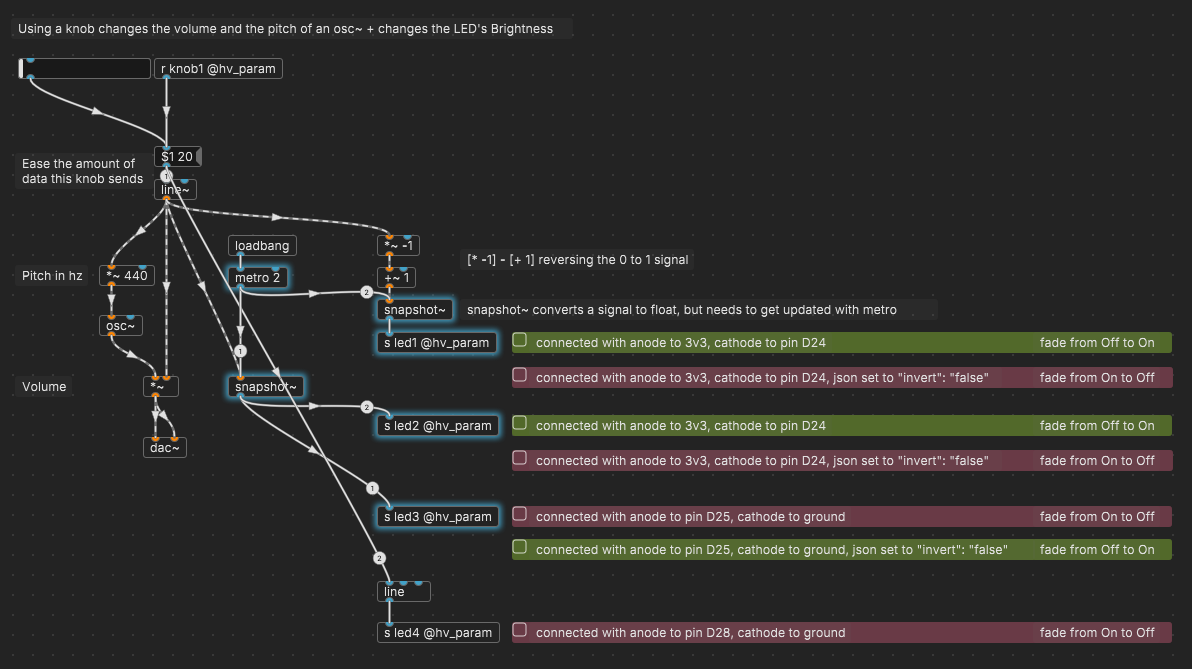
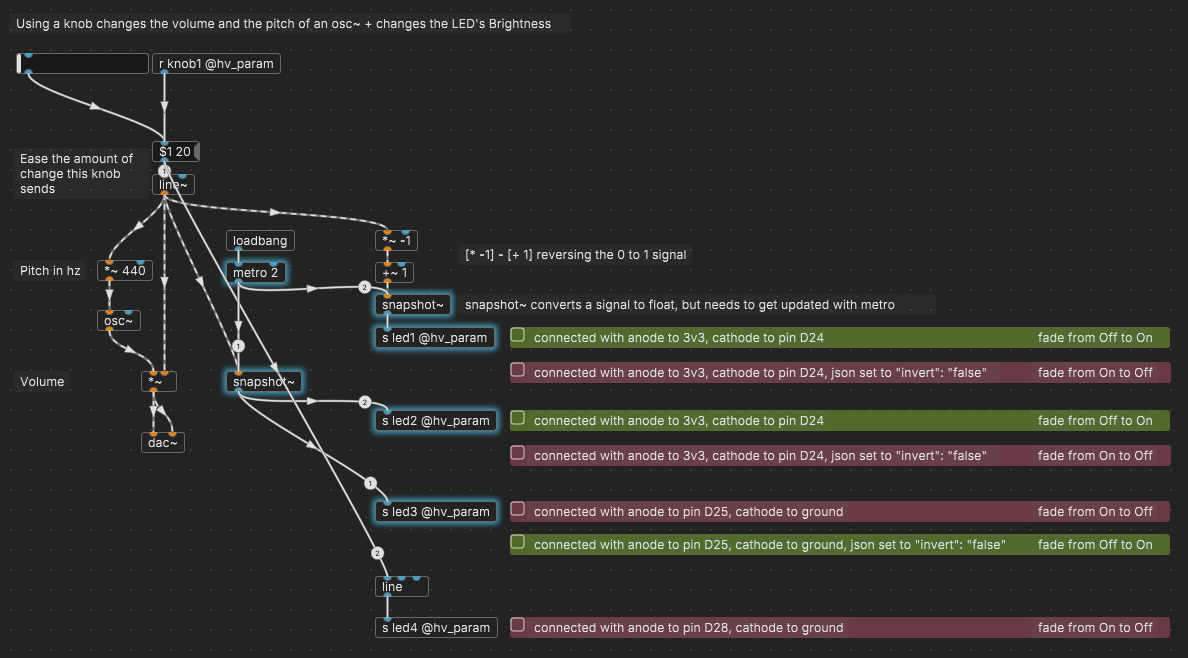
update LED and links

diff --git a/02_components_pd_examples/03_LEDs/LED_plugdata.md b/02_components_pd_examples/03_LEDs/LED_plugdata.md
@@ -38,6 +38,8 @@ If a pin like on many micro-controllers can only output a steady 3V or 5V, there
 
 For Plugdata this means that when we've setup the hardware and custom json file to use the PWM approach we can simply send a value between 0 and 1 to achieve brightness. Animate this change and we'll achieve fading.
 
+***
+
 ## What it looks like
 
 <img alt="LED illustration Wikipedia" width="400px" height="auto" src="img\LED-wikipedia.png">
@@ -67,6 +69,8 @@ For the common cathode RGB LED you need to wire up each R, G, B, pin with a resi
 Using an extra chip, e.g. PCA9685, like done on some of the Electro-Smith devices (Patch, Petal), is probably the best way if you're in need of more pins or LED's.
 There is a breakout board by Adafruit that connects over i2c, however, I've not tried hooking this up myself, so can't provide full guidance. [Look at the json files of json2daisy](https://github.com/electro-smith/json2daisy/tree/f77c6b40b95372643616dbef445e760998aacf33/src/json2daisy/resources), e.g. the main component_defs.json and the board specific json files for The Patch and PPetal, you'll find the code used for those. Look for words LED and the chip PCA9685.
 
+***
+
 ## Pins - wiring up the LED's
 
 For the sake of demoing, we'll be using single color LED's. These have a shorter leg, the cathode that needs to be connected to ground and the longer leg that goes through a resistor, 22O ohm, into the Daisy GPIO pins.
@@ -95,6 +99,8 @@ This video demonstrates the led flicker / stepped behavior:
 {: .new}
 > Todo / to check: Which pins can do PWM? Thus far I've used the Analog pins, yet defining them in the custom json as led's sets them up as pwm pins, so as per some info I understand that any pin can be setup as pwm because it's software pwm, hardware pwm is still under development. Source: [Takumi Ogata on Daisy forum](https://forum.electro-smith.com/t/dimming-leds-with-hardware-pwm/4957/3) and: [Led Class reference on libDaisy](https://electro-smith.github.io/libDaisy/classdaisy_1_1_led.html#details)
 
+***
+
 ## Components custom json
 
 Depending on how you've wired the pins you might find it easy to define the invert to false.
@@ -114,6 +120,8 @@ This is the way to address the pins in json, note the invert line.
             "pin": 24,
             "invert": "false"
 ```
+
+***
 
 ## PD example(s)
 
@@ -177,7 +185,7 @@ Using metro with a toggle we send a 1 or a 0 after each bang that the tgl sends
 
 In this example we want the LED to be on when the touchpad is toggled on. Depending on your pin setup this might need a simple reversing of the 0 to 1 value.
 
-This patch is using the touch sensor mpr121, to get that sensor running, you need to do some extra stuff, see the page 'sensors' for more info.
+This patch is using the touch sensor mpr121, to get that sensor running, you need to do some extra stuff, see the page 'custom json board' ([link](01_install_setup_plugdata\03_custom_json_board\03_custom_json_board.html)) for more info.
 You could simply use e.g. a button/switch instead.
 
 ![](img\ledtest_fading_reversed_mpr121.jpg)
@@ -202,6 +210,8 @@ Note there's rather a lot of needless extra complexity due to the testing, I hop
 {: .new}
 > After all of my testing, I've come to the decision to leave invert out of the custom json, and reverse the value in Plugdata when needed.
 > Depending on what LED's and how you have wired them up, you might want to define the desired values on `loadbang` as well. E.g. if your patch/synth boots and turns the led on, and only updates after you use it the first time.
+
+***
 
 ## Links / references / sources
 
@@ -230,7 +240,7 @@ Note there's rather a lot of needless extra complexity due to the testing, I hop
 To ensure the flickering/ stepped behaviour was caused by software or hardware I tried some cpp code.
 
 I've tested the difference between Plugdata and using Arduino to fade the leds, and must conclude that the flickering is caused somewhere along the 'software' side.
-Note in the video I just shot the Synthux Simple Fix has the two different wirings, while the Simple Touch has already been re-soldered with the anodes into pins 24 and 25. 
+Note in the video I just shot the Synthux Simple Fix has the two different wirings, while the Simple Touch has already been re-soldered with the anodes into pins 24 and 25.
 
 the current setup:
 

diff --git a/01_install_setup_plugdata/03_custom_json_board/03_custom_json_board.md b/01_install_setup_plugdata/03_custom_json_board/03_custom_json_board.md
@@ -16,6 +16,28 @@ parent: Installation and setting up Plugdata with Daisy
 
 # Setting up a custom json file to describe your daisy pin setup
 
+## How is your hardware setup?
+
+It's not easy to provide a general custom json, as that's mostly not going to be the same setup as your unique build.
+
+For some general boards and devices there are presets available that you can select from the compile menu.
+
+When setting up your own device, you'll most likely start with a breadboarded or a kit like those from Synthux.
+
+Even if you plan to skip going the cpp / arduino route and start learning here it might be worthed to watch the build guides, as they proviidde some guidance in how to solder and how to connect.
+
+{: .new}
+> These basics are maybe enough to get you started:
+>
+>- ***connect Analog Ground AGND and Digital Ground DGND***
+>   - Synthux pcb's have shortcuts for this
+>
+>- depending on wether you have mono or stereo in and outputs, connect your jacks accordingly
+>
+>- use the Daisy seed pinout diagram to look up which pins you can use for your components (e.g. analog for potentiometers)
+    - most pages here each show the pins you can use, or [link to a spreadsheet]() that I made
+> 
+
 ![Synthux Simple](img\Synthux_Simple_Daisy.jpg)
 <sub>So you've connected some potentiometers on the Synthux Simple matrix to the analog pins of the Daisy, now what? (picture from Synthux)</sub>
 
@@ -235,9 +257,13 @@ Though you'll probably end up tweaking or writing your own, there are a few pre-
 
 ### pd2dsy
 
-The pure data to daisy - [pd2dsy](https://github.com/electro-smith/pd2dsy) section on Github contains lots of useful info on the different components and the massages they send or receive.
+Though some stuff is slightly outdated compared to the workflow you get via Plugdata, many valuable info can be found here:
 
-As linked above: [custom_json_example.json from pd2dsy on their Github](https://github.com/electro-smith/pd2dsy/blob/master/util/custom_json_example.json)
+- The pure data to daisy - [pd2dsy](https://github.com/electro-smith/pd2dsy) section on Github contains lots of useful info on the different components and the massages they send or receive.
+
+  - See also this same page at the Wiki over at [DaisyWiki / pd2dsy Guide](https://github.com/electro-smith/DaisyWiki/wiki/pd2dsy-Guide), you'll find more info over there.
+
+- As linked above: [custom_json_example.json from pd2dsy on their Github](https://github.com/electro-smith/pd2dsy/blob/master/util/custom_json_example.json)
 
 ### json2daisy
 
@@ -337,7 +363,7 @@ This is the file from plugdata's Github but I've added Toggle Switches on pins 6
 ```
 ---
 
-### Synthux Simple Touch - jonwtr
+### Synthux Simple Touch - jonwtr - setting up MPR121 Touch Sensor
 
 This is the version I'm using. Note that for this to work you have to edit the 'mother-file' because of a bug the pins are not setup correct. To change the main json definition file you can do this:
 
